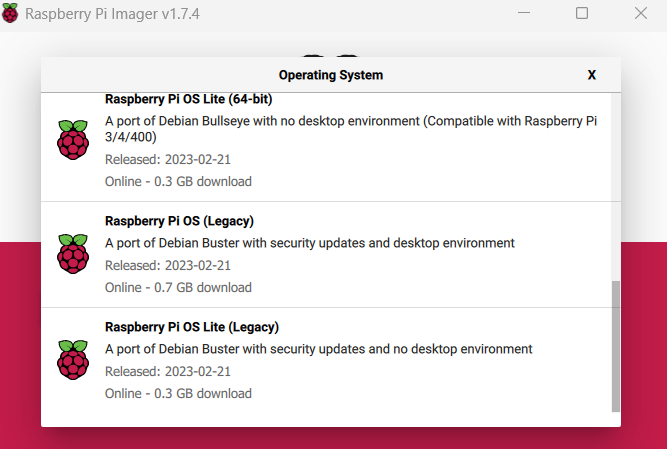
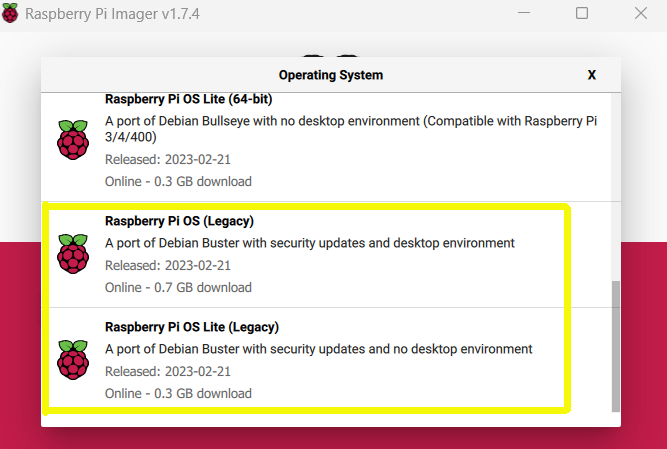
upgrade

Changed region(s): [[0.06, 0.4365, 0.8696, 0.9354]]

diff --git a/README.md b/README.md
@@ -36,6 +36,8 @@ https://varhowto.com/install-ros-noetic-raspberry-pi-4/ <br>
 <p align="center"><img src="./img/debian-buster1.png" height="350" alt=""></p>
 <p align="center"><img src="./img/debian-buster2.png" height="350" alt=""></p>
 
+Se puede instalar la versión con o sin Interfaz grafica
+
 <br>
 
 ### Download Debian 10 Buster <img  width="34"  align="middle" src="https://cdn.jsdelivr.net/gh/devicons/devicon/icons/debian/debian-original-wordmark.svg" />[Operating system images](https://www.raspberrypi.com/software/operating-systems/). Para instalar con [BALENA](https://etcher.balena.io/)
